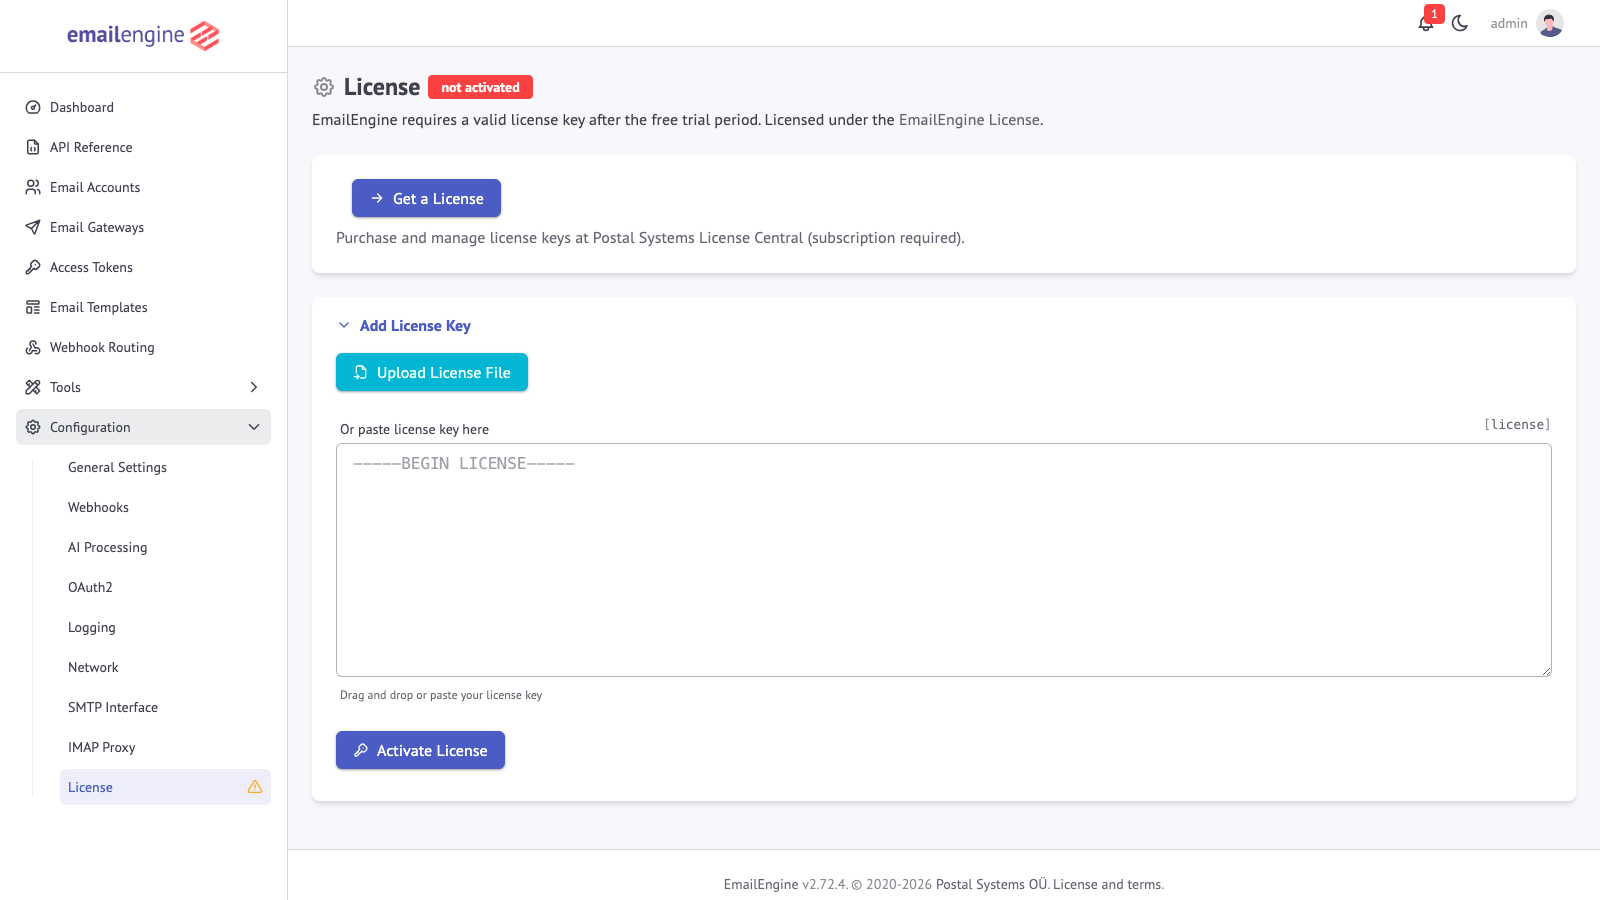
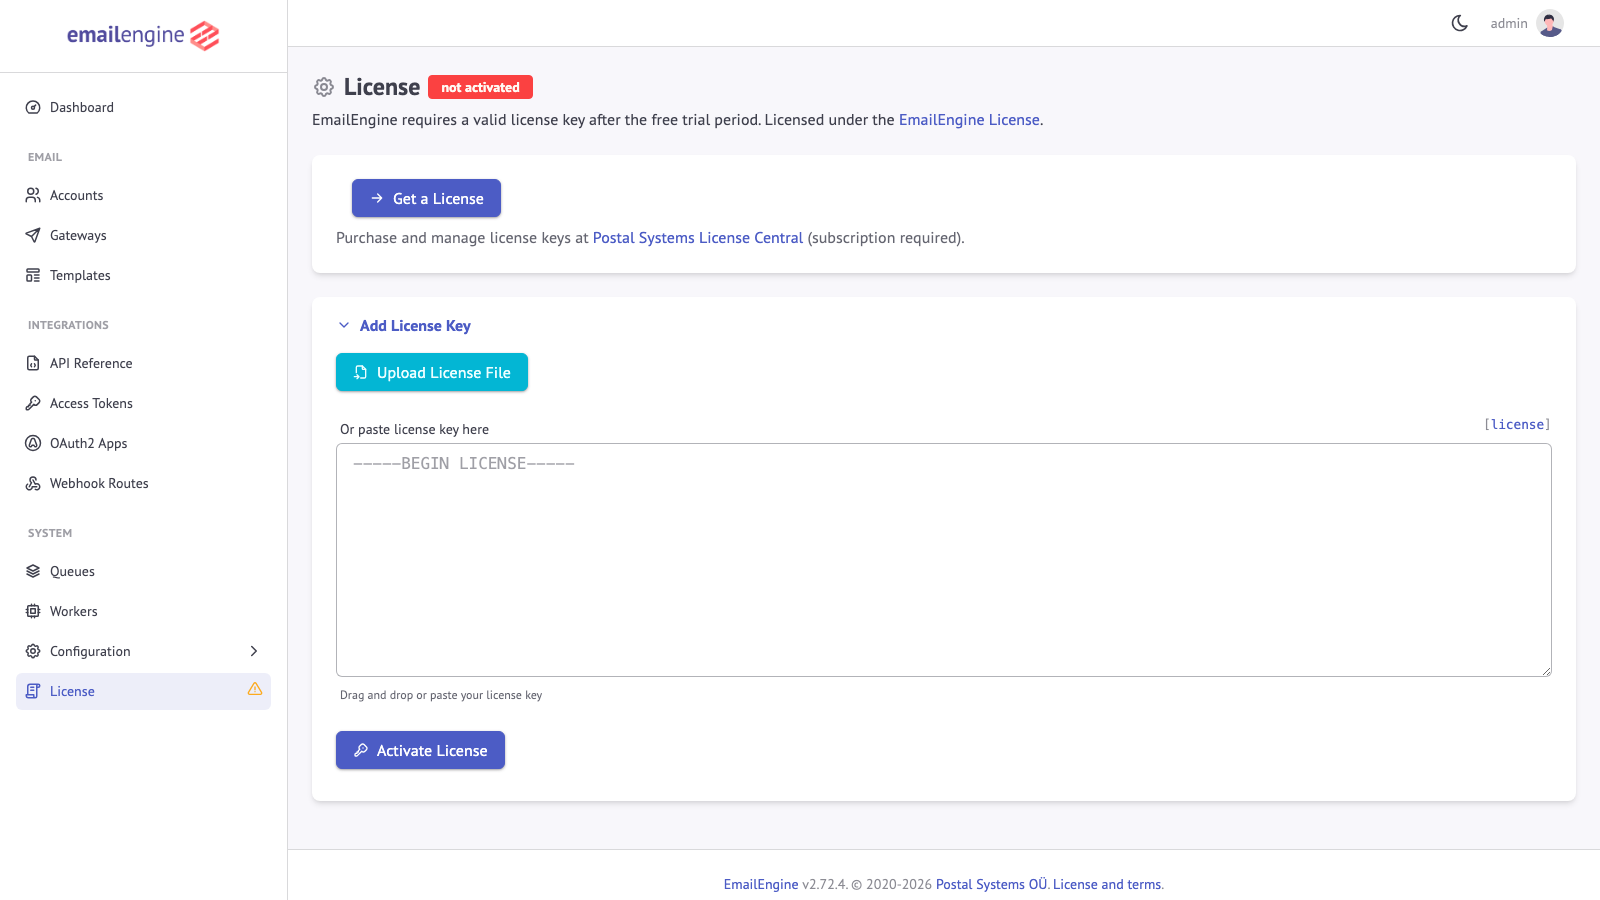
Refresh admin UI screenshots for the Tailwind/FlyonUI theme
Re-capture the admin, webhook-routing, OAuth2-setup, and license
onboarding screenshots against EmailEngine's reorganized admin UI
(Email/Integrations/System menu groups, redesigned dashboard).

Also fix capture-oauth2-screenshots.js: the generic button.dropdown-toggle
selector matched the top-bar user menu in the new theme; target the
stable #create-app-dropdown id for the provider chooser instead.

diff --git a/scripts/capture-oauth2-screenshots.js b/scripts/capture-oauth2-screenshots.js
@@ -43,9 +43,12 @@ async function captureScreenshots() {
         });
         console.log('Captured: 01-oauth2-config-empty.png');
 
-        // Screenshot 2: Click dropdown to show provider options
+        // Screenshot 2: Click dropdown to show provider options.
+        // The "Create OAuth2 app" button has a stable id; the generic
+        // `button.dropdown-toggle` selector matches the top-bar user menu first.
         console.log('Opening Add application dropdown...');
-        await page.click('button.dropdown-toggle');
+        await page.click('#create-app-dropdown');
+        await page.waitForSelector('.dropdown-menu [href*="provider="]', { state: 'visible', timeout: 5000 });
         await page.waitForTimeout(500);
         await page.screenshot({
             path: path.join(OUTPUT_DIR, '02-oauth2-add-app-menu.png'),
